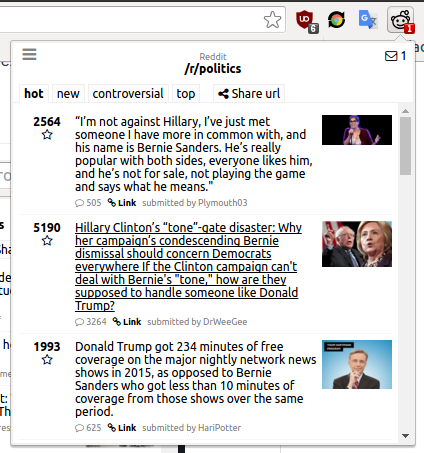
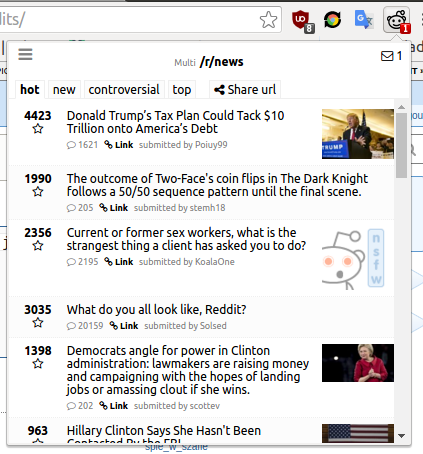
Add support for multis, update version, add new screenshots

diff --git a/extension/src/components/NewsView.vue b/extension/src/components/NewsView.vue
@@ -3,25 +3,25 @@
   nav
     .container.tiny.text-center
       span
-        .subtitle Reddit
-        .text-bold.title /r/{{ subreddit }}
+        span.subtitle {{ title }} &nbsp;
+        span.text-bold.title /r/{{ subreddit }}
       span.messages
         a.no-decoration(v-tab-link='https://www.reddit.com/message/unread/')
           i.fa.fa-envelope-o &nbsp;
           | {{ messages }}
 
     ul.nav.listings
-      li(v-for='type in listings' v-link-active)
+      li(v-for='sort in listings' v-link-active)
         a.no-decoration(
-          v-link="{path:'/news/' + $route.params.subreddit + '/' + type, params: $route.params, activeClass: 'active'}"
-        ) {{ type }}
+          v-link="{name: 'news', params: {type: type, name: subreddit, sort: sort}, activeClass: 'active'}"
+        ) {{ sort }}
       li
         a.no-decoration(href='javascript:;' v-on:click='shareURL')
           i.fa.fa-share-alt &nbsp;
           | Share url
 
   // List
-  .row(v-el:list)
+  .full-size(v-el:list)
     .row(v-if='loading') Loading...
     .row.link(v-for='link in news' v-bind:class='{visited: link.clicked}')
       .score
@@ -66,6 +66,7 @@
             news: ({news}) => news.list
           , listings: ({news}) => news.listings
           , messages: ({user}) => user.messages
+          , multis: ({user}) => user.subs.multis
           , loading: ({news}) => !news.error && !news.list.length
         }
         , actions: {
@@ -78,16 +79,22 @@
 
     // Computed fields
     , computed: {
-      subreddit() { return this.$route.params.subreddit; }
+        subreddit() { return this.$route.params.name; }
+      , type() { return this.$route.params.type; }
+      , title() { return _.upperFirst(this.type); }
     }
 
     // On route change
     , route: {
       data ({ to }) {
         // Load news
+        let {name, sort} = to.params
+          , multi = to.params.type === 'multi';
+
         this.fetchNews(
-              to.params.subreddit
-            , to.params.sort
+              multi && name
+            , multi ? this.multis.length && _.find(this.multis, {name}).subreddits : name
+            , sort
         );
         this.setMenuVisible(false);
       }
@@ -179,6 +186,12 @@
     padding-left: 0;
     padding-right: 0;
 
+    &:first-child {
+      margin-top: 4px;
+    }
+    &:nth-child(even) {
+      background: rgba(128, 128, 128, 0.03);
+    }
     &:not(:last-child) {
       border-bottom: 1px dotted $separator-color;
     }

diff --git a/extension/src/components/Sidebar.vue b/extension/src/components/Sidebar.vue
@@ -1,9 +1,23 @@
 <template lang="jade">
-  nav.text-bold(v-show='!loading') Sub-reddits:
-  nav.text-bold(v-if='loading') Loading...
+  nav.text-bold Choose source
+
+  .text-bold(v-if='loading') Loading...
   ul.sidebar
-    li(v-for='subreddit in subs' v-link-active)
-      a.no-decoration(v-link="{path: '/news/' + subreddit, activeClass: 'text-bold'}") {{ subreddit }}
+    li(v-show='!loading')
+      .text-bold Multis:
+      ul
+        li(v-for='multi in multis' v-link-active)
+          a.no-decoration(
+            v-link="{path: '/news/multi/' + multi.name, activeClass: 'text-bold'}"
+          ) {{ multi.name }}
+
+    li(v-show='!loading')
+      .text-bold Sub-reddits:
+      ul
+        li(v-for='subreddit in subreddits' v-link-active)
+          a.no-decoration(
+            v-link="{path: '/news/subreddit/' + subreddit, activeClass: 'text-bold'}"
+          ) {{ subreddit }}
 
   footer.container
     a.fa.fa-lg.fa-fw.fa-plus(v-tab-link='https://www.reddit.com/subreddits/')
@@ -23,8 +37,9 @@
       name: 'Sidebar'
     , vuex: {
       getters: {
-          subs: ({user}) => ['general', ...user.subs]
-        , loading: ({user}) => !user.subs.length && !user.error
+          subreddits: ({user}) => ['general', ...user.subs.subreddits]
+        , multis: ({user}) => user.subs.multis
+        , loading: ({user}) => !user.subs.subreddits.length && !user.error
       }
       , actions: {
         fetchUserInfo
@@ -33,8 +48,11 @@
     , methods: {
       // Logout user
       logout() {
+        // Clear cache
         client.logout();
         localforage.clear();
+
+        // Close browser
         window.close();
       }
     }
@@ -47,23 +65,30 @@
 <style lang="sass" rel="stylesheet/scss">
   @import 'sass/const.scss';
 
-  ul.sidebar {
+  #hamburger-menu > div {
+    padding: $padding;
+  }
+
+  ul {
     padding: $padding;
     padding-top: 0;
+  }
+  ul.sidebar {
     margin-top: 0;
     max-height: 87%;
     overflow-y: auto;
+
+    > li:first-of-type a::before {
+      content: '+';
+    }
+    > li:not(:first-of-type) a::before {
+      content: '#';
+    }
 
     li {
       overflow: hidden;
       text-overflow: ellipsis;
       margin: 5px 0;
-      &:first-child {
-        margin-bottom: 15px;
-      }
-      &:not(:first-child) a::before {
-        content: '#';
-      }
     }
   }
 

diff --git a/extension/src/vuex/news/actions.js b/extension/src/vuex/news/actions.js
@@ -54,10 +54,11 @@ export const setLinkClicked = ({dispatch}, id) => {
 
 /**
  * Fetch list of news
- * @param subreddit Subreddit name
+ * @param groupName Name of names group
+ * @param name      List of names
  * @param listing   Listing
  */
-export const fetchNews = ({dispatch}, subreddit, listing) => {
+export const fetchNews = ({dispatch}, groupName, name, listing) => {
   let time = Date.now();
 
   dispatch(types.FETCH_NEWS_REQUEST);
@@ -66,7 +67,8 @@ export const fetchNews = ({dispatch}, subreddit, listing) => {
     // Validate cache
     .then((cache) => {
       if(!cache
-          || cache.subreddit !== subreddit
+          || cache.type !== (groupName ? 'multi' : 'subreddit')
+          || cache.subreddit !== (groupName || name)
           || cache.listing !== listing
           || cache.exp <= Date.now())
         cache = {};
@@ -81,12 +83,12 @@ export const fetchNews = ({dispatch}, subreddit, listing) => {
 
       // Detect menu
       let listings = ['hot', 'new', 'controversial', 'top'];
-      if(subreddit === 'general') {
+      if(name === 'general') {
         listings = [...listings, 'rising', 'gilded'];
         promise = promise || client.front(listing);
 
       } else if(!promise)
-        promise = client.api(`/r/${subreddit}/${listing}`);
+        promise = client.api(`r/${groupName ? name.join('+') : name}/${listing}`);
 
       // Return promise
       return promise.then((data) => [data, listings]);
@@ -103,9 +105,11 @@ export const fetchNews = ({dispatch}, subreddit, listing) => {
         localforage.setItem('cachedScroll');
         localforage.setItem('cachedListing', {
             exp: time + 300000
-          , data
+          , subreddit: groupName || name
+          , type: groupName ? 'multi': 'subreddit'
+
           , listing
-          , subreddit
+          , data
         });
       }
 

diff --git a/extension/src/app.js b/extension/src/app.js
@@ -23,22 +23,28 @@ import './directives';
   let router = new VueRouter;
   router
     .map({
-        '/news/:subreddit/:sort': {component: NewsView}
+        '/news/:type/:name/:sort': {
+            name: 'news'
+          , component: NewsView
+        }
       , '/info': {component: InfoView}
     })
     .alias({
-      '/news/:subreddit': '/news/:subreddit/hot'
+      '/news/:type/:name': '/news/:type/:name/hot'
     });
 
   // Load cached route
   localforage
     .getItem('cachedListing')
-    .then((data) => {
-      if(!data)
-        data = {subreddit: 'general', listing: 'hot'};
-
+    .then((params) => {
+      if(!params)
+        params = {
+            type: 'subreddit'
+          , subreddit: 'general'
+          , listing: 'hot'
+        };
       // Go to route
-      router.go(`/news/${data.subreddit}/${data.listing}`);
+      router.go(`/news/${params.type}/${params.subreddit}/${params.listing}`);
     });
 
   router.start(App, '#vue-mount');

diff --git a/extension/src/vuex/user/actions.js b/extension/src/vuex/user/actions.js
@@ -12,13 +12,25 @@ export const fetchUserInfo = ({dispatch}) => {
     .all([
         client.api('api/v1/me')
       , client.api('subreddits/mine/subscriber')
+      , client.api('api/multi/mine')
     ])
 
     // On fetch done
-    .then(([user, list]) => {
+    .then(([user, subreddits, multis]) => {
+      multis = _.map(multis, ({data}) => {
+        return {
+            name: data['display_name']
+          , color: data['key_color']
+          , icon: data['icon_url']
+          , subreddits: _.map(data['subreddits'], (child) => child['name'])
+        };
+      });
       dispatch(types.FETCH_USER_SUCCESS, {
           nick: user.name
-        , subs: _.map(list.data.children, (child) => child.data.display_name)
+        , subs: {
+            subreddits: _.map(subreddits.data.children, (child) => child.data['display_name'])
+          , multis
+        }
       });
     })
 

diff --git a/extension/src/vuex/user/index.js b/extension/src/vuex/user/index.js
@@ -2,7 +2,10 @@ import _ from 'lodash';
 import types from '../mutations';
 
 const state = {
-    subs: []
+    subs: {
+        subreddits: []
+      , multis: []
+    }
   , nick: ''
   , messages: 0
   , error: false
@@ -14,7 +17,7 @@ const state = {
 const mutations = {
   [types.FETCH_USER_REQUEST](state) {
     _.assign(state, {
-        subs: []
+        subs: {subreddits:[], multis: []}
       , nick: ''
       , messages: 0
       , error: false

diff --git a/extension/src/components/sass/ui.scss b/extension/src/components/sass/ui.scss
@@ -1,11 +1,13 @@
+@import 'const.scss';
+
 * {
   box-sizing: border-box;
 }
 
 .container {
-  padding: 6px;
+  padding: $padding;
   &.tiny {
-    padding: 3px;
+    padding: $padding;
   }
   width: 100%;
 }
@@ -69,9 +71,7 @@ ul.nav {
   color: gray;
 }
 
-nav {
-  + div, + iframe {
-    overflow-y: auto;
-    height: calc(100vh - 60px);
-  }
+nav + div.full-size {
+  overflow-y: auto;
+  height: calc(100vh - 56px);
 }

diff --git a/extension/src/components/InfoView.vue b/extension/src/components/InfoView.vue
@@ -29,5 +29,5 @@
 
     .row
       strong Version: &nbsp;
-      | v.0.1.7
+      | v.0.1.8
 </template>
